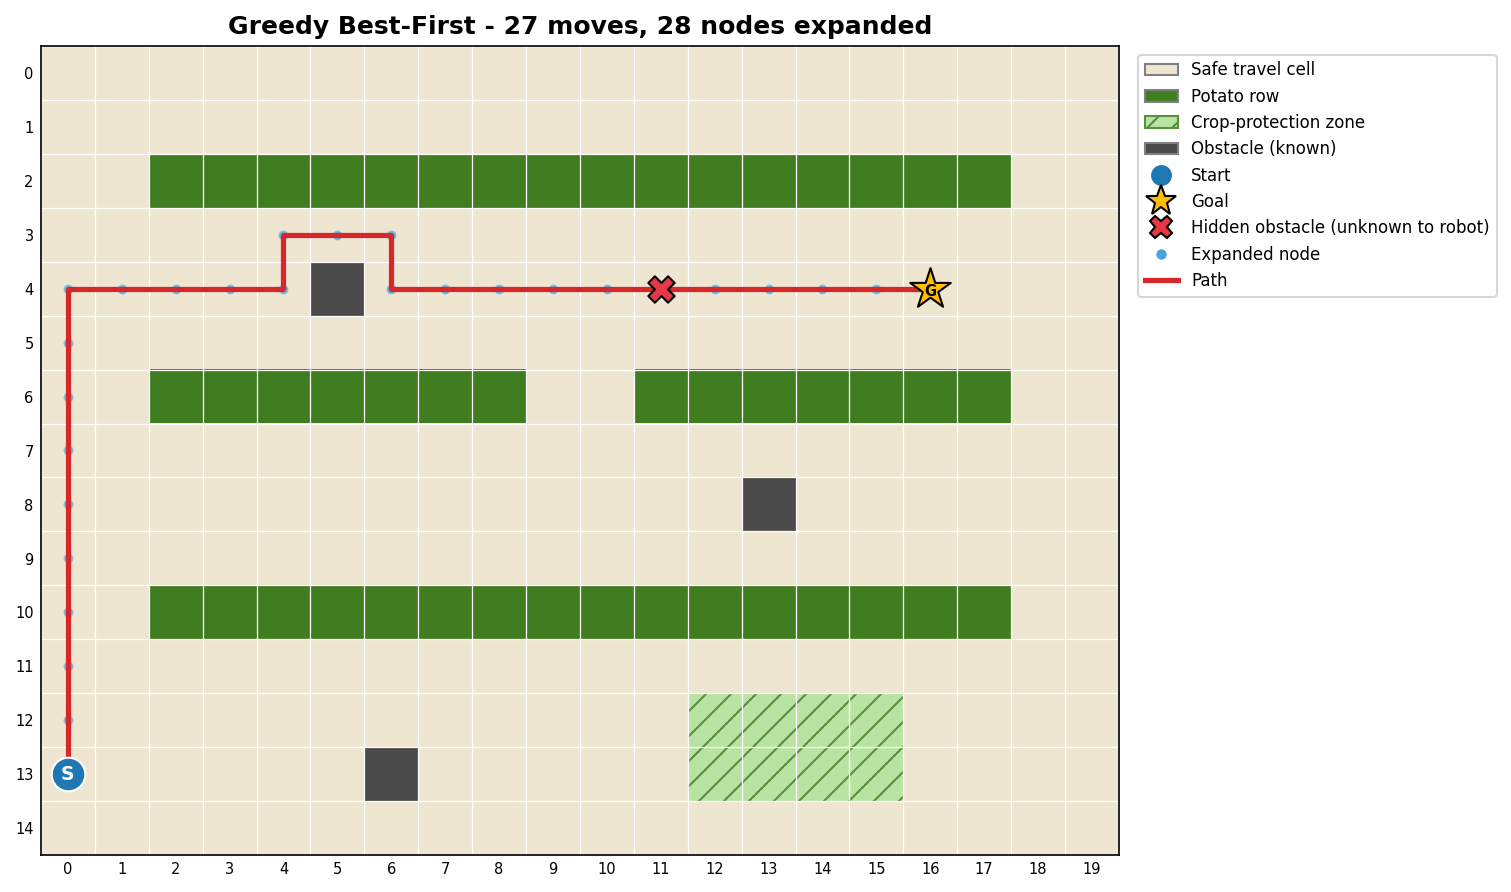
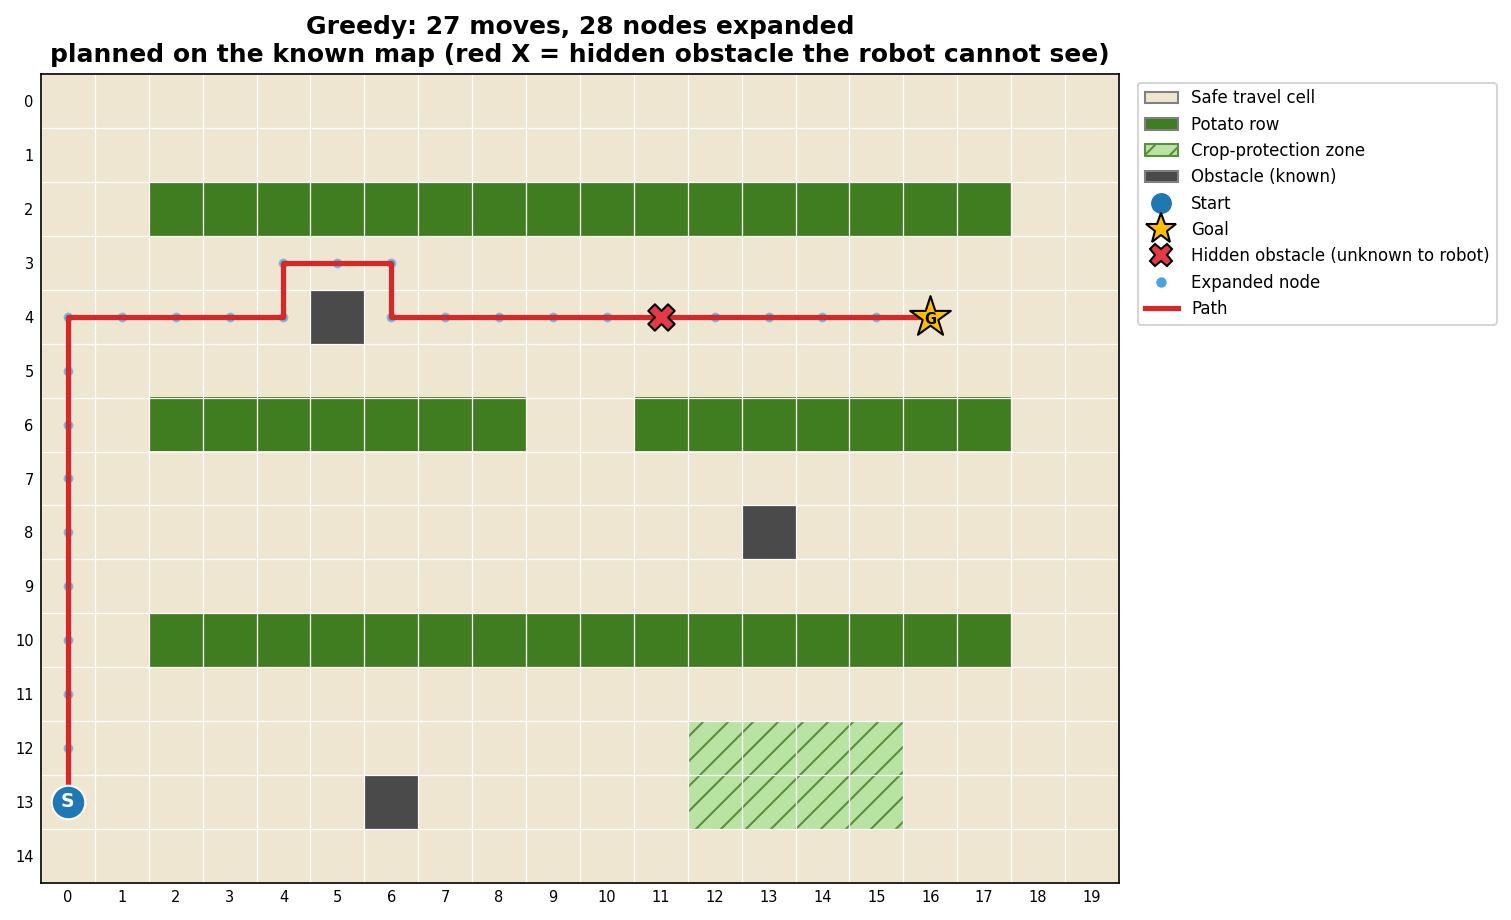
Iteration 9: main.py runs every task and regenerates all screenshots

diff --git a/main.py b/main.py
@@ -1,0 +1,154 @@
+"""
+main.py  -  Iteration 9: run the whole project and produce every screenshot
+
+    python main.py              -> runs every task, saves all screenshots, prints all tables
+    python main.py --show       -> same, then opens every figure in a window
+    python main.py --animate    -> same as --show, plus the live replanning animation
+    python main.py --gif        -> also saves screenshots/07_replanning.gif (~30 s extra)
+
+Screenshots produced (folder: screenshots/):
+    01_field.png                     Task 1  field, crop rows, protected zone, obstacles, start, goal
+    02_problem.png                   Task 2  problem formulation + legal moves
+    03_bfs.png, 03_dfs.png           Task 3  each algorithm's path and expanded nodes
+    04_greedy.png, 05_astar.png      Task 3
+    06_crop_safe.png                 Task 4  plain vs crop-safe A*
+    06_crop_safe_formulation.png     Task 4  formulation with the crop-safe cost
+    07_replanning.png                Task 5  hidden obstacle detected, route replanned
+    07_replanning_results.png        Task 5  what happened + table
+    08_evaluation_table.png          Task 6  comparison tables
+    08_evaluation_charts.png         Task 6  bar charts
+    09_all_paths.png                 every algorithm's path side by side
+"""
+
+import os
+import sys
+
+SHOW = any(flag in sys.argv for flag in ("--show", "--animate"))
+if not SHOW:
+    import matplotlib
+    matplotlib.use("Agg")          # no windows: just save the pictures
+
+import matplotlib.pyplot as plt
+
+import crop_safe_demo
+from evaluation import (evaluate, evaluate_random, observations, print_table, save_results,
+                        draw_tables, draw_charts, MAIN_COLUMNS, RANDOM_COLUMNS, RANDOM_FIELDS)
+from field import build_default_field, draw_field
+from problem import PathProblem, formulation_report, draw_formulation
+from replanning import (navigate, comparison_rows, print_report, draw_replanning_maps,
+                        draw_replanning_results, animate, mark_detected, DETECTED_HANDLE)
+from search.astar import astar
+from search.bfs import bfs
+from search.dfs import dfs
+from search.greedy import greedy
+
+KNOWN_MAP_NOTE = "planned on the known map (red X = hidden obstacle the robot cannot see)"
+
+
+def heading(text):
+    print("\n" + "=" * 78 + f"\n{text}\n" + "=" * 78)
+
+
+def save_single_path(field, result, filename):
+    """One algorithm's path + expanded nodes (Task 3 screenshots)."""
+    ax = draw_field(field, path=result.path, explored=result.expanded,
+                    title=f"{result.algorithm}: {result.path_length} moves, "
+                          f"{result.nodes_expanded} nodes expanded\n{KNOWN_MAP_NOTE}",
+                    save_path=os.path.join("screenshots", filename))
+    return ax.figure
+
+
+def draw_all_paths(field, results, nav, save_path="screenshots/09_all_paths.png"):
+    """Every algorithm's path side by side (2 x 3), one shared legend."""
+    scorer = PathProblem(field, crop_safe=True)
+    fig, axes = plt.subplots(2, 3, figsize=(20, 11), layout="constrained")
+    for ax, r in zip(axes.flat, results):
+        draw_field(field, path=r.path, explored=r.expanded, ax=ax, title="")
+        ax.set_title(f"{r.algorithm}\n{r.path_length} moves | {r.nodes_expanded} expanded\n"
+                     f"crop-safe cost {scorer.path_cost(r.path):.0f}", fontsize=10, fontweight="bold")
+        handles = ax.get_legend().legend_handles
+        ax.get_legend().remove()
+
+    last = axes.flat[5]
+    draw_field(nav.known, path=nav.trail, ax=last, show_hidden=False, title="")
+    last.set_title(f"Online A* + replanning (driven)\n{nav.moves} moves | {nav.nodes_expanded} expanded | "
+                   f"{nav.replans} replan\ncrop-safe cost {scorer.path_cost(nav.trail):.0f}",
+                   fontsize=10, fontweight="bold")
+    mark_detected(last, [c for _, _, c in nav.detections])
+    last.get_legend().remove()
+
+    fig.legend(handles=list(handles) + [DETECTED_HANDLE], loc="outside lower center",
+               ncol=6, fontsize=9, frameon=True)
+    fig.suptitle("Task 3 - Paths from every search algorithm\n"
+                 "first five planned on the known map, blue dots = expanded nodes",
+                 fontsize=13, fontweight="bold")
+    if save_path:
+        fig.savefig(save_path, dpi=150, bbox_inches="tight")
+    return fig
+
+
+def main():
+    os.makedirs("screenshots", exist_ok=True)
+    field = build_default_field()
+
+    heading("TASK 1 - Field environment")
+    field.summary()
+    draw_field(field, title="Task 1 - Potato field environment", save_path="screenshots/01_field.png")
+
+    heading("TASK 2 - Problem formulation")
+    plain = PathProblem(field, crop_safe=False)
+    print("\n".join(formulation_report(plain)))
+    draw_formulation(plain, title="Task 2 - Problem formulation", save_path="screenshots/02_problem.png")
+
+    heading("TASK 3 - Search algorithms (planned on the known map)")
+    results = [bfs(plain), dfs(plain), greedy(plain), astar(plain, name="A* (plain)"),
+               astar(PathProblem(field, crop_safe=True), name="A* (crop-safe)")]
+    for r in results:
+        r.report()
+    for r, name in zip(results[:4], ["03_bfs.png", "03_dfs.png", "04_greedy.png", "05_astar.png"]):
+        save_single_path(field, r, name)
+
+    heading("TASK 4 - Crop-safe planning")
+    crop_safe_demo.main(show=False)
+
+    heading("TASK 5 - Hidden obstacle detection and replanning")
+    nav = navigate(field, crop_safe=True, record_frames=True)
+    rows5 = comparison_rows(field, nav)
+    print_report(nav, rows5)
+    draw_replanning_maps(field, nav)
+    draw_replanning_results(nav, rows5)
+    draw_all_paths(field, results, nav)
+    if "--gif" in sys.argv:
+        print("\nSaving screenshots/07_replanning.gif (about half a minute)...")
+        gif = animate(field, nav, substeps=4, pause_frames=10)
+        gif.save("screenshots/07_replanning.gif", writer="pillow", fps=12, dpi=70)
+        plt.close(gif._fig)
+
+    heading("TASK 6 - Performance evaluation")
+    rows6 = evaluate(field)
+    print(f"Averaging over {RANDOM_FIELDS} random layouts...")
+    random_rows = evaluate_random()
+    obs = observations(rows6, random_rows)
+    print_table("PERFORMANCE COMPARISON - default field (crop-safe cost, median time)", rows6, MAIN_COLUMNS)
+    print_table(f"AVERAGE OVER {RANDOM_FIELDS} RANDOM LAYOUTS", random_rows, RANDOM_COLUMNS)
+    print("\nOBSERVATIONS")
+    for o in obs:
+        print(f"  - {o}")
+    save_results(rows6, random_rows, obs)
+    draw_tables(rows6, random_rows)
+    draw_charts(rows6)
+
+    heading("DONE")
+    for name in sorted(os.listdir("screenshots")):
+        print(f"  screenshots/{name}")
+    print("  results/results_table.md\n  results/results.csv")
+
+    if "--animate" in sys.argv:
+        anim = animate(field, nav)         # keep the variable alive until plt.show()
+    if SHOW:
+        print("\nClose the windows to finish.")
+        plt.show()
+
+
+if __name__ == "__main__":
+    main()

diff --git a/crop_safe_demo.py b/crop_safe_demo.py
@@ -21,7 +21,7 @@ def overlay_penalty(ax, field, penalty):
     ax.imshow(shaded, cmap="Oranges", alpha=0.35, vmin=0, vmax=penalty.max() + 1, zorder=2)
 
 
-def main():
+def main(show=True):
     field = build_default_field()
     plain_problem = PathProblem(field, crop_safe=False)
     safe_problem = PathProblem(field, crop_safe=True)
@@ -75,6 +75,7 @@ def main():
     draw_formulation(safe_problem, title="Crop-safe problem formulation",
                      save_path="screenshots/06_crop_safe_formulation.png")
 
-    plt.show()      # opens both pages (two windows)
+    if show:
+        plt.show()      # opens both pages (two windows)
 if __name__ == "__main__":
     main()

diff --git a/results/results_table.md b/results/results_table.md
@@ -4,12 +4,12 @@ All routes scored with the crop-safe cost. Time = median of 30 runs.
 
 | Algorithm | Reached goal | Moves | Crop-safe cost | Cells next to crops | Nodes expanded | Time (ms) | Replans | Hits hidden obstacle |
 |---|---:|---:|---:|---:|---:|---:|---:|---:|
-| BFS | yes | 25 | 62 | 6 | 215 | 0.391 | 0 | yes |
-| DFS | yes | 91 | 245 | 40 | 152 | 0.344 | 0 | no |
-| Greedy | yes | 27 | 60 | 3 | 28 | 0.083 | 0 | yes |
+| BFS | yes | 25 | 62 | 6 | 215 | 0.389 | 0 | yes |
+| DFS | yes | 91 | 245 | 40 | 152 | 0.347 | 0 | no |
+| Greedy | yes | 27 | 60 | 3 | 28 | 0.086 | 0 | yes |
 | A* (plain) | yes | 25 | 62 | 6 | 31 | 0.102 | 0 | yes |
-| A* (crop-safe) | yes | 25 | 56 | 3 | 182 | 0.542 | 0 | yes |
-| Online A* + replanning | yes | 25 | 60 | 5 | 203 | 0.623 | 1 | no |
+| A* (crop-safe) | yes | 25 | 56 | 3 | 182 | 0.545 | 0 | yes |
+| Online A* + replanning | yes | 25 | 60 | 5 | 203 | 0.633 | 1 | no |
 
 _Offline planners plan once on the known map: 'Reached goal' means their plan reaches the goal on that map.
 'Hits hidden obstacle' shows whether the real robot would drive into the unknown obstacle ('for real' = the plan reaches the goal without hitting it)._
@@ -20,12 +20,12 @@ Each layout adds 20 random known obstacles and 3 random hidden obstacles. Moves 
 
 | Algorithm | Reached goal on known map (%) | Reached goal for real (%) | Moves | Crop-safe cost | Nodes expanded | Time (ms) | Replans |
 |---|---:|---:|---:|---:|---:|---:|---:|
-| BFS | 96.0 | 58.0 | 25.7 | 74.3 | 178.6 | 0.360 | 0 |
-| DFS | 96.0 | 20.0 | 86.1 | 257.1 | 135.1 | 0.331 | 0 |
-| Greedy | 96.0 | 55.0 | 28.0 | 74.7 | 31.8 | 0.099 | 0 |
-| A* (plain) | 96.0 | 54.0 | 25.7 | 73.2 | 48.2 | 0.158 | 0 |
-| A* (crop-safe) | 96.0 | 57.0 | 26.9 | 64.2 | 152.0 | 0.479 | 0 |
-| Online A* + replanning | 94.0 | 94.0 | 27.5 | 67.1 | 183.2 | 0.597 | 0.5 |
+| BFS | 96.0 | 58.0 | 25.7 | 74.3 | 178.6 | 0.333 | 0 |
+| DFS | 96.0 | 20.0 | 86.1 | 257.1 | 135.1 | 0.315 | 0 |
+| Greedy | 96.0 | 55.0 | 28.0 | 74.7 | 31.8 | 0.092 | 0 |
+| A* (plain) | 96.0 | 54.0 | 25.7 | 73.2 | 48.2 | 0.147 | 0 |
+| A* (crop-safe) | 96.0 | 57.0 | 26.9 | 64.2 | 152.0 | 0.451 | 0 |
+| Online A* + replanning | 94.0 | 94.0 | 27.5 | 67.1 | 183.2 | 0.548 | 0.5 |
 
 ## Observations
 
